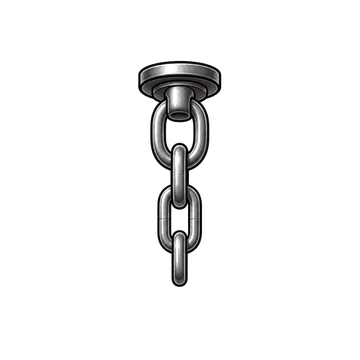
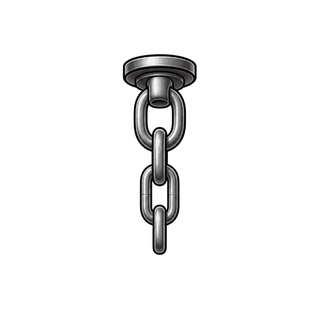
fix: フック dent を反転、中央クリックを upper と統一、優しいハグ演出と新素材
dent 位置:
- フックでは『力が加わった側にデント』が出るよう、hook の
  sideShift だけ -side * sideMag に反転。横スイング方向と独立に
  力点を表示

中央クリック:
- side===0 の punch/tap/cat を upper と同じ rotateX -22 + scale +
  y 上下のアニメに統合（旧の中央専用 rotateX -16 + scale 0.94 を
  廃止）。"isUpperLike" 判定で upper ブロックと共通化

クランチ演出:
- 効果音 hugChord をローパス 1800Hz / Q 0.7 のバスに通し、
  ベース G2/G3、ルート G4、第三 B4、第五 D5、オクターブ G5、
  シマー D6 をカスケード遅延でフェードイン。アタック 0.28〜0.4 秒
  の超ゆるやかな立ち上がりで pad 感、決して鋭くない
- 新規 .impact__aura（外周 240/320px、内周 160/220px）を
  pink-warm ラジアルグラデ + blur + mix-blend:screen で重ね、
  二段でふわっと膨らむ "優しいオーラ"
- ハート画像サイズを 70/88px → 140/180px に拡大、回転と scale
  カーブを少し優しいカーブに調整 (0.4→1.1→1.3)

猫パンチ:
- meow を sawtooth + 二段 formant (900/2400Hz) + 7Hz vibrato で
  にゃーん輪郭の鳴き声に再合成。サンプルなしでも声らしさ向上
- 提供素材で paw-left.png (976×1064→360×392) /
  paw-right.png (848×968→360×411) を差し替え

サンドバッグ上の鎖:
- 提供素材を chain.png (1254×1254→320×320) で保存
- SandbagStage に再配置し、CSS の .chain-mount で
  height: calc(50% - var(--bag-h)/2 + 18px) によりバッグ上端と
  自動接続する天井金具に。object-fit: cover で上端寄せ

diff --git a/src/lib/sound.ts b/src/lib/sound.ts
@@ -216,32 +216,55 @@ function meow() {
   const master = getMaster(c);
   const now = c.currentTime;
 
+  // Vocal source: sawtooth carries harmonics that pass through formant filters
   const osc = c.createOscillator();
+  osc.type = "sawtooth";
+  // にゃーん contour: low → rise → dip → rise → fall
+  osc.frequency.setValueAtTime(420, now);
+  osc.frequency.linearRampToValueAtTime(720, now + 0.08);
+  osc.frequency.linearRampToValueAtTime(620, now + 0.18);
+  osc.frequency.linearRampToValueAtTime(760, now + 0.3);
+  osc.frequency.linearRampToValueAtTime(360, now + 0.46);
+
+  // Two formant bandpasses simulate vocal tract (vowel-like)
+  const f1 = c.createBiquadFilter();
+  f1.type = "bandpass";
+  f1.frequency.setValueAtTime(900, now);
+  f1.Q.setValueAtTime(4.5, now);
+
+  const f2 = c.createBiquadFilter();
+  f2.type = "bandpass";
+  f2.frequency.setValueAtTime(2400, now);
+  f2.Q.setValueAtTime(3, now);
+
   const gain = c.createGain();
-  osc.type = "sine";
-  osc.frequency.setValueAtTime(720, now);
-  osc.frequency.linearRampToValueAtTime(420, now + 0.13);
-  osc.frequency.linearRampToValueAtTime(560, now + 0.24);
-
   gain.gain.setValueAtTime(0, now);
-  gain.gain.linearRampToValueAtTime(0.18, now + 0.02);
-  gain.gain.exponentialRampToValueAtTime(0.0008, now + 0.32);
+  gain.gain.linearRampToValueAtTime(0.18, now + 0.04);
+  gain.gain.linearRampToValueAtTime(0.16, now + 0.32);
+  gain.gain.exponentialRampToValueAtTime(0.0008, now + 0.55);
 
-  osc.connect(gain);
+  osc.connect(f1);
+  f1.connect(f2);
+  f2.connect(gain);
   gain.connect(master);
   osc.start(now);
-  osc.stop(now + 0.34);
+  osc.stop(now + 0.58);
 
-  const bp = c.createBiquadFilter();
-  bp.type = "bandpass";
-  bp.frequency.setValueAtTime(900, now);
-  bp.Q.setValueAtTime(1.2, now);
-  playNoiseLayer(c, master, now, bp, 0.06, 0.004, 0.045);
+  // Vibrato (~7Hz) on pitch for natural mew warble
+  const lfo = c.createOscillator();
+  const lfoGain = c.createGain();
+  lfo.type = "sine";
+  lfo.frequency.setValueAtTime(7, now);
+  lfoGain.gain.setValueAtTime(18, now);
+  lfo.connect(lfoGain);
+  lfoGain.connect(osc.frequency);
+  lfo.start(now);
+  lfo.stop(now + 0.58);
 }
 
 function softTone(
   c: AudioContext,
-  master: GainNode,
+  destination: AudioNode,
   type: OscillatorType,
   freq: number,
   vol: number,
@@ -257,7 +280,7 @@ function softTone(
   gain.gain.linearRampToValueAtTime(vol, startAt + attackSec);
   gain.gain.exponentialRampToValueAtTime(0.0006, startAt + durSec);
   osc.connect(gain);
-  gain.connect(master);
+  gain.connect(destination);
   osc.start(startAt);
   osc.stop(startAt + durSec + 0.02);
 }
@@ -269,14 +292,30 @@ function hugChord() {
   const master = getMaster(c);
   const now = c.currentTime;
 
-  // Warm major triad (root + major third + perfect fifth + octave) — bell-like hug
-  softTone(c, master, "sine", 392.0, 0.16, now, 0.12, 0.85); // G4 root
-  softTone(c, master, "sine", 493.88, 0.11, now + 0.04, 0.16, 0.78); // B4 major third
-  softTone(c, master, "sine", 587.33, 0.09, now + 0.06, 0.18, 0.72); // D5 fifth
-  softTone(c, master, "sine", 783.99, 0.06, now + 0.1, 0.22, 0.6); // G5 octave
+  // Soft lowpass + gentle gain stage to keep the tones airy and round
+  const bus = c.createGain();
+  bus.gain.value = 1;
+  const lp = c.createBiquadFilter();
+  lp.type = "lowpass";
+  lp.frequency.setValueAtTime(1800, now);
+  lp.Q.setValueAtTime(0.7, now);
+  bus.connect(lp);
+  lp.connect(master);
 
-  // Sub layer for warmth
-  softTone(c, master, "triangle", 196.0, 0.08, now, 0.18, 0.7); // G3
+  // Pad layer: slow attack pad with two octaves of root for warmth
+  softTone(c, bus, "sine", 196.0, 0.1, now, 0.32, 1.4); // G3 sub
+  softTone(c, bus, "sine", 392.0, 0.13, now, 0.28, 1.4); // G4 root
+
+  // Major chord on top, slightly delayed for cascade ("welcome hug")
+  softTone(c, bus, "sine", 493.88, 0.085, now + 0.08, 0.32, 1.2); // B4 third
+  softTone(c, bus, "sine", 587.33, 0.07, now + 0.14, 0.34, 1.05); // D5 fifth
+  softTone(c, bus, "sine", 783.99, 0.045, now + 0.22, 0.36, 0.9); // G5 octave
+
+  // Shimmering top for sparkle
+  softTone(c, bus, "sine", 1175.0, 0.025, now + 0.32, 0.4, 0.7); // D6 high
+
+  // Soft "breath" of triangle bass under the pad
+  softTone(c, bus, "triangle", 98.0, 0.06, now, 0.4, 1.3); // G2 deep
 }
 
 function hookSwing() {

diff --git a/src/components/Sandbag.tsx b/src/components/Sandbag.tsx
@@ -111,7 +111,9 @@ export function Sandbag({ hitKey, power, kind, side, intensity, onTap }: Props) 
   useEffect(() => {
     if (hitKey === 0 || kind === "crunch" || kind === "tap") return;
     const sideMag = kind === "hook" ? 28 : 18;
-    const sideShift = side === 0 ? 0 : side * sideMag;
+    // Hook: dent appears on the side that received the force (opposite the swing direction)
+    const sideShift =
+      side === 0 ? 0 : kind === "hook" ? -side * sideMag : side * sideMag;
     const xJitter = (Math.random() - 0.5) * (kind === "hook" ? 4 : 6);
     const yJitter = (Math.random() - 0.5) * 14;
     const baseSize =
@@ -193,12 +195,16 @@ export function Sandbag({ hitKey, power, kind, side, intensity, onTap }: Props) 
     const amp = Math.min(3, Math.max(0.9, intensity));
     const durMul = Math.min(1.4, 0.85 + amp * 0.15);
 
-    if (kind === "upper") {
-      // Uppercut: bag pushed up + tilts back (rotateX top forward), then settles.
-      // Slight scale changes simulate depth: bag closer at peak, smaller as it swings back.
+    // Uppercut OR center body hit: bag pushed up + tilts back (rotateX),
+    // slight scale + y shift convey depth without scaleX/Y stretching.
+    const isUpperLike =
+      kind === "upper" ||
+      (side === 0 && (kind === "punch" || kind === "tap" || kind === "cat"));
+    if (isUpperLike) {
+      const intensityCap = Math.min(1.4, amp);
       return {
         hitAnimate: {
-          rotateX: [0, -22 * Math.min(1.4, amp), 8, -3, 0],
+          rotateX: [0, -22 * intensityCap, 8, -3, 0],
           scale: [1, 1.05 + amp * 0.01, 0.96, 1.01, 1],
           y: [0, -8 - amp * 2, -2, 0, 0],
           rotate: 0,
@@ -220,21 +226,7 @@ export function Sandbag({ hitKey, power, kind, side, intensity, onTap }: Props) 
       };
     }
 
-    // punch / cat / tap
-    if (side === 0) {
-      // Center body hit: bag pushed BACK (rotateX negative = top toward viewer, bottom away),
-      // recoils forward, settles. Scale slightly smaller at peak = depth cue.
-      const sBase = kind === "cat" ? 0.55 : 1;
-      return {
-        hitAnimate: {
-          rotateX: [0, -16 * amp * sBase, 6 * amp * sBase, -2 * amp * sBase, 0],
-          scale: [1, 0.94 - amp * 0.015 * sBase, 1.02, 0.99, 1],
-          rotate: 0,
-        },
-        hitTransition: { duration: 0.6 * durMul, ease: "easeOut" as const },
-      };
-    }
-
+    // Side hits (punch / cat / tap with side ≠ 0)
     const base = kind === "cat" ? catSwayByPower[power] : punchSwayByPower[power];
     const flip = side === -1 ? -1 : 1;
     return {

diff --git a/src/styles/globals.css b/src/styles/globals.css
@@ -272,6 +272,28 @@ textarea {
   filter: drop-shadow(0 14px 18px rgba(40, 26, 12, 0.32));
 }
 
+.chain-mount {
+  position: absolute;
+  top: 0;
+  left: 50%;
+  transform: translateX(-50%);
+  width: 64px;
+  height: calc(50% - var(--bag-h) / 2 + 18px);
+  min-height: 28px;
+  object-fit: cover;
+  object-position: top center;
+  z-index: 2;
+  pointer-events: none;
+  user-select: none;
+  filter: drop-shadow(0 4px 6px rgba(40, 26, 12, 0.35));
+}
+
+@media (min-width: 600px) {
+  .chain-mount {
+    width: 76px;
+  }
+}
+
 .stage__corner-tag {
   position: absolute;
   top: 18px;
@@ -535,20 +557,67 @@ textarea {
   position: absolute;
   top: 50%;
   left: 50%;
-  width: 70px;
+  width: 140px;
   height: auto;
-  margin-top: -36px;
-  margin-left: -35px;
+  margin-top: -72px;
+  margin-left: -70px;
   pointer-events: none;
   user-select: none;
-  filter: drop-shadow(0 4px 10px rgba(229, 90, 55, 0.45));
+  filter: drop-shadow(0 6px 14px rgba(229, 90, 55, 0.5));
+}
+
+.impact__aura {
+  position: absolute;
+  top: 50%;
+  left: 50%;
+  width: 240px;
+  height: 240px;
+  margin-top: -120px;
+  margin-left: -120px;
+  border-radius: 50%;
+  background: radial-gradient(
+    circle,
+    rgba(255, 196, 220, 0.65) 0%,
+    rgba(255, 218, 230, 0.42) 30%,
+    rgba(255, 230, 200, 0.18) 60%,
+    transparent 80%
+  );
+  pointer-events: none;
+  filter: blur(8px);
+  mix-blend-mode: screen;
+}
+
+.impact__aura--inner {
+  width: 160px;
+  height: 160px;
+  margin-top: -80px;
+  margin-left: -80px;
+  background: radial-gradient(
+    circle,
+    rgba(255, 240, 230, 0.85) 0%,
+    rgba(255, 220, 230, 0.5) 35%,
+    transparent 75%
+  );
+  filter: blur(4px);
 }
 
 @media (min-width: 600px) {
   .impact__heart-img {
-    width: 88px;
-    margin-top: -45px;
-    margin-left: -44px;
+    width: 180px;
+    margin-top: -92px;
+    margin-left: -90px;
+  }
+  .impact__aura {
+    width: 320px;
+    height: 320px;
+    margin-top: -160px;
+    margin-left: -160px;
+  }
+  .impact__aura--inner {
+    width: 220px;
+    height: 220px;
+    margin-top: -110px;
+    margin-left: -110px;
   }
 }
 

diff --git a/src/components/ImpactEffect.tsx b/src/components/ImpactEffect.tsx
@@ -73,15 +73,33 @@ export function ImpactEffect({ hitKey, power, kind, side, point }: Props) {
           />
         )}
         {kind === "crunch" && !reduce && (
-          <motion.img
-            className="impact__heart-img"
-            src={heartSrc}
-            alt=""
-            draggable={false}
-            initial={{ opacity: 0, scale: 0.4, rotate: -12 }}
-            animate={{ opacity: [0, 0.95, 0.7, 0], scale: [0.4, 1.1, 1.0, 1.2], rotate: [-12, 4, 8, 12] }}
-            transition={{ duration: 0.85, ease: "easeOut", times: [0, 0.25, 0.7, 1] }}
-          />
+          <>
+            <motion.div
+              className="impact__aura"
+              initial={{ opacity: 0, scale: 0.35 }}
+              animate={{ opacity: [0, 0.7, 0.4, 0], scale: [0.35, 1.2, 1.6, 2.0] }}
+              transition={{ duration: 1.05, ease: "easeOut", times: [0, 0.25, 0.6, 1] }}
+            />
+            <motion.div
+              className="impact__aura impact__aura--inner"
+              initial={{ opacity: 0, scale: 0.5 }}
+              animate={{ opacity: [0, 0.85, 0], scale: [0.5, 1.0, 1.4] }}
+              transition={{ duration: 0.95, ease: "easeOut", times: [0, 0.4, 1] }}
+            />
+            <motion.img
+              className="impact__heart-img"
+              src={heartSrc}
+              alt=""
+              draggable={false}
+              initial={{ opacity: 0, scale: 0.4, rotate: -12 }}
+              animate={{
+                opacity: [0, 1, 0.85, 0],
+                scale: [0.4, 1.1, 1.05, 1.3],
+                rotate: [-12, 0, 6, 14],
+              }}
+              transition={{ duration: 1.0, ease: "easeOut", times: [0, 0.25, 0.7, 1] }}
+            />
+          </>
         )}
         <span className="impact__text">{labelFor(kind, power)}</span>
       </motion.div>

diff --git a/src/components/SandbagStage.tsx b/src/components/SandbagStage.tsx
@@ -10,6 +10,7 @@ import type {
   PunchPower,
 } from "../types/punch";
 import ringSrc from "../assets/sandbag/ring.png";
+import chainSrc from "../assets/sandbag/chain.png";
 
 type Props = {
   flyingWords: FlyingWordType[];
@@ -57,6 +58,13 @@ export function SandbagStage({
   return (
     <section ref={stageRef} className="stage" aria-label="サンドバッグの舞台">
       <img className="ring-bg" src={ringSrc} alt="" aria-hidden="true" draggable={false} />
+      <img
+        className="chain-mount"
+        src={chainSrc}
+        alt=""
+        aria-hidden="true"
+        draggable={false}
+      />
       <span className="stage__corner-tag" aria-hidden="true">
         受付中
       </span>
